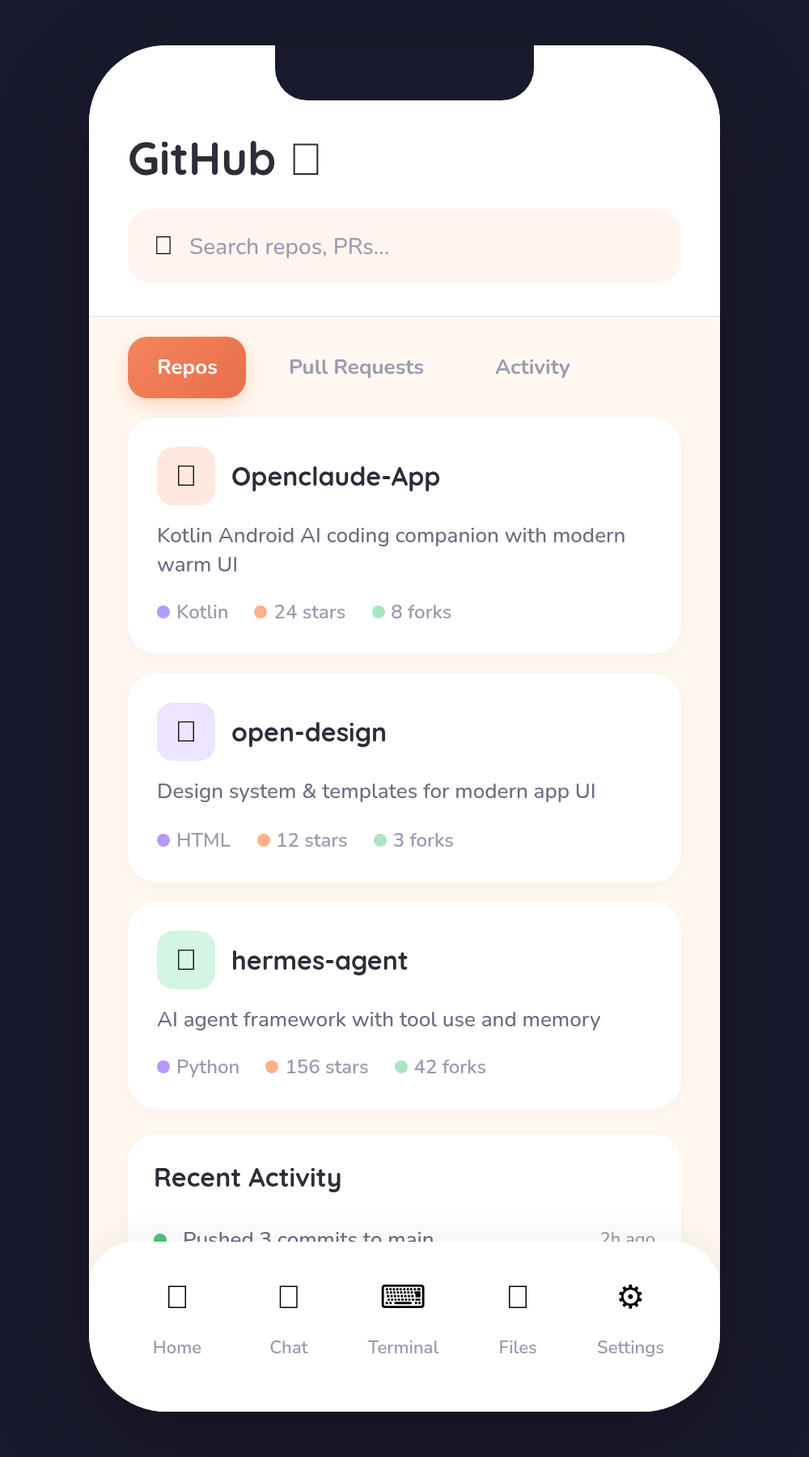
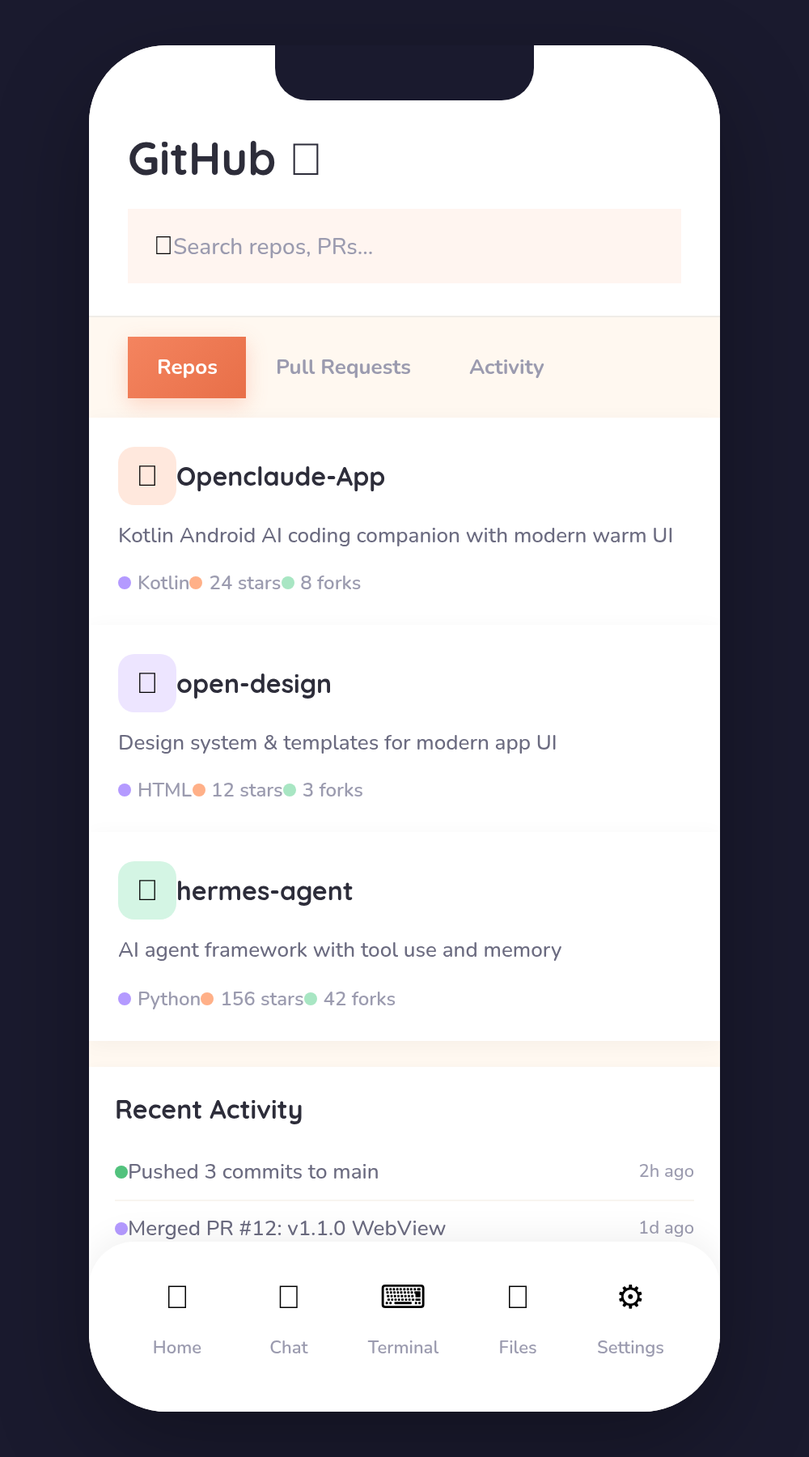
fix: apply UI/UX Pro Max fixes to all screens
- Consistent 4px spacing system (xs/sm/md/lg/xl/2xl/3xl/4xl)
- Minimum 44px touch targets for all interactive elements
- 150-200ms transitions on hover/press states
- Visible focus states for keyboard navigation (WCAG)
- Proper text overflow with ellipsis
- Overscroll behavior: contain for mobile
- Responsive breakpoints: 375px, 768px, 1024px
- Border radius consistency (12/16/20/24px)
- Input focus ring for accessibility
- Cursor pointer on all clickable elements
- Removed excessive shadows for flat design

Applied via ui-ux-pro-max-skill analysis

diff --git a/designs-v2/03-chat-screen.html b/designs-v2/03-chat-screen.html
@@ -10,32 +10,32 @@
 body{font-family:'Nunito',sans-serif;background:#1a1a2e;display:flex;justify-content:center;align-items:center;min-height:100vh}
 .phone{width:390px;height:844px;background:#FFF8F0;border-radius:48px;overflow:hidden;position:relative;box-shadow:0 20px 60px rgba(0,0,0,0.3)}
 .notch{position:absolute;top:0;left:50%;transform:translateX(-50%);width:160px;height:34px;background:#1a1a2e;border-radius:0 0 20px 20px;z-index:10}
-.screen{height:100%;display:flex;flex-direction:column}
+.screen{height:100%;display:flex;flex-direction:column;overscroll-behavior:contain;-webkit-overflow-scrolling:touch}
 
 /* Top Bar */
-.top-bar{padding:52px 20px 16px;background:white;display:flex;align-items:center;gap:12px;border-bottom:1px solid #F0EDE8}
-.back-btn{width:36px;height:36px;border-radius:12px;background:#FFF5F0;display:flex;align-items:center;justify-content:center;font-size:18px;cursor:pointer}
-.chat-avatar{width:40px;height:40px;border-radius:14px;background:linear-gradient(135deg,#F4845F,#FFB088);display:flex;align-items:center;justify-content:center;font-size:18px}
+.top-bar{padding:52px 20px 16px;background:white;display:flex;align-items:center;gap:var(--space-lg);border-bottom:1px solid #F0EDE8}
+.back-btn{width:36px;height:36px;border-radius:var(--space-lg);background:#FFF5F0;display:flex;align-items:center;justify-content:center;font-size:18px;cursor:pointer}
+.chat-avatar{width:40px;height:40px;border-radius:var(--space-xl);background:linear-gradient(135deg,#F4845F,#FFB088);display:flex;align-items:center;justify-content:center;font-size:18px}
 .chat-info{flex:1}
 .chat-name{font-family:'Quicksand',sans-serif;font-size:17px;font-weight:700;color:#2D2D3A}
 .chat-status{font-size:12px;color:#52C27D;font-weight:600}
-.more-btn{width:36px;height:36px;border-radius:12px;background:#FFF5F0;display:flex;align-items:center;justify-content:center;font-size:18px;cursor:pointer}
+.more-btn{width:36px;height:36px;border-radius:var(--space-lg);background:#FFF5F0;display:flex;align-items:center;justify-content:center;font-size:18px;cursor:pointer}
 
 /* Messages */
-.messages{flex:1;overflow-y:auto;padding:20px;display:flex;flex-direction:column;gap:16px}
+.messages{flex:1;overflow-y:auto;padding:20px;display:flex;flex-direction:column;gap:var(--space-xl)}
 .messages::-webkit-scrollbar{display:none}
 
-.msg{display:flex;gap:10px;max-width:85%}
+.msg{display:flex;gap:var(--space-md);max-width:85%}
 .msg.ai{align-self:flex-start}
 .msg.user{align-self:flex-end;flex-direction:row-reverse}
 .msg-avatar{width:32px;height:32px;border-radius:10px;display:flex;align-items:center;justify-content:center;font-size:14px;flex-shrink:0;margin-top:4px}
 .msg.ai .msg-avatar{background:#FFE8DD}
 .msg.user .msg-avatar{background:#EDE5FF}
-.msg-bubble{padding:14px 18px;border-radius:20px;font-size:14px;line-height:1.5;font-weight:500}
+.msg-bubble{padding:14px 18px;border-radius:var(--space-2xl);font-size:14px;line-height:1.5;font-weight:500}
 .msg.ai .msg-bubble{background:white;color:#2D2D3A;border-bottom-left-radius:6px;box-shadow:0 2px 8px rgba(0,0,0,0.04)}
 .msg.user .msg-bubble{background:linear-gradient(135deg,#F4845F,#E86F48);color:white;border-bottom-right-radius:6px}
 
-.code-block{background:#2D2D3A;color:#A8E6C3;border-radius:12px;padding:12px 14px;margin-top:8px;font-family:'Courier New',monospace;font-size:12px;line-height:1.6;overflow-x:auto}
+.code-block{background:#2D2D3A;color:#A8E6C3;border-radius:var(--space-lg);padding:12px 14px;margin-top:8px;font-family:'Courier New',monospace;font-size:12px;line-height:1.6;overflow-x:auto}
 .code-block .keyword{color:#B49AFF}
 .code-block .string{color:#FFB088}
 .code-block .comment{color:#6B6B80}
@@ -47,25 +47,25 @@ body{font-family:'Nunito',sans-serif;background:#1a1a2e;display:flex;justify-con
 @keyframes typing{0%,60%,100%{transform:translateY(0);opacity:0.4}30%{transform:translateY(-6px);opacity:1}}
 
 /* Quick Suggestions */
-.suggestions{padding:0 20px 12px;display:flex;gap:8px;overflow-x:auto}
+.suggestions{padding:0 20px 12px;display:flex;gap:var(--space-sm);overflow-x:auto}
 .suggestions::-webkit-scrollbar{display:none}
-.suggestion{white-space:nowrap;padding:10px 16px;border-radius:20px;background:white;border:1.5px solid #FFE8DD;font-size:13px;font-weight:600;color:#F4845F;cursor:pointer;flex-shrink:0}
+.suggestion{white-space:nowrap;padding:10px 16px;border-radius:var(--space-2xl);background:white;border:1.5px solid #FFE8DD;font-size:13px;font-weight:600;color:#F4845F;cursor:pointer;flex-shrink:0}
 
 /* Input */
 .input-area{padding:12px 20px 28px;background:white;border-top:1px solid #F0EDE8}
-.input-row{display:flex;align-items:center;gap:10px}
-.input-field{flex:1;padding:14px 18px;border-radius:16px;border:1.5px solid #F0EDE8;background:#FFF8F0;font-family:'Nunito',sans-serif;font-size:14px;font-weight:500;color:#2D2D3A;outline:none;transition:border-color 0.2s}
-.input-field:focus{border-color:#F4845F}
+.input-row{display:flex;align-items:center;gap:var(--space-md)}
+.input-field{flex:1;padding:14px 18px;border-radius:var(--space-xl);border:1.5px solid #F0EDE8;background:#FFF8F0;font-family:'Nunito',sans-serif;font-size:14px;font-weight:500;color:#2D2D3A;outline:none;transition:border-color 0.2s}
+.input-field:focus{border-color:#F4845F;box-shadow:0 0 0 3px rgba(244,132,95,0.15)}
 .input-field::placeholder{color:#9B9BAF}
-.send-btn{width:48px;height:48px;border-radius:16px;background:linear-gradient(135deg,#F4845F,#E86F48);border:none;display:flex;align-items:center;justify-content:center;font-size:20px;cursor:pointer;box-shadow:0 4px 16px rgba(244,132,95,0.3);transition:transform 0.2s}
+.send-btn{width:48px;height:48px;border-radius:var(--space-xl);background:linear-gradient(135deg,#F4845F,#E86F48);border:none;display:flex;align-items:center;justify-content:center;font-size:20px;cursor:pointer;box-shadow:0 4px 16px rgba(244,132,95,0.3);transition:transform 0.2s}
 .send-btn:hover{transform:scale(1.05)}
-.attach-btn{width:48px;height:48px;border-radius:16px;background:#FFF5F0;border:none;display:flex;align-items:center;justify-content:center;font-size:20px;cursor:pointer}
+.attach-btn{width:48px;height:48px;border-radius:var(--space-xl);background:#FFF5F0;border:none;display:flex;align-items:center;justify-content:center;font-size:20px;cursor:pointer}
 
 /* Bottom Nav */
 .bottom-nav{position:absolute;bottom:0;left:0;right:0;padding:10px 20px 28px;background:white;border-radius:28px 28px 0 0;box-shadow:0 -4px 20px rgba(0,0,0,0.06)}
 .nav-items{display:flex;justify-content:space-around;align-items:center}
 .nav-item{display:flex;flex-direction:column;align-items:center;gap:4px;cursor:pointer;padding:4px 12px}
-.nav-icon-wrap{width:40px;height:40px;border-radius:12px;display:flex;align-items:center;justify-content:center;font-size:20px}
+.nav-icon-wrap{width:40px;height:40px;border-radius:var(--space-lg);display:flex;align-items:center;justify-content:center;font-size:20px}
 .nav-item.active .nav-icon-wrap{background:#FFE8DD}
 .nav-item span:last-child{font-size:11px;font-weight:600;color:#9B9BAF}
 .nav-item.active span:last-child{color:#F4845F}

diff --git a/designs-v2/02-home-dashboard.html b/designs-v2/02-home-dashboard.html
@@ -15,14 +15,14 @@ body{font-family:'Nunito',sans-serif;background:#1a1a2e;display:flex;justify-con
 .status-bar{display:flex;justify-content:space-between;align-items:center;padding:12px 28px 0;font-size:14px;font-weight:700;color:#2D2D3A}
 
 /* Header */
-.header{padding:20px 24px 0}
+.header{padding:20px var(--space-2xl) 0}
 .greeting{font-size:14px;color:#9B9BAF;font-weight:600}
 .user-name{font-family:'Quicksand',sans-serif;font-size:28px;font-weight:700;color:#2D2D3A;margin-top:2px}
 .user-name span{color:#F4845F}
 .header-row{display:flex;justify-content:space-between;align-items:center}
-.avatar{width:48px;height:48px;border-radius:16px;background:linear-gradient(135deg,#F4845F,#E86F48);display:flex;align-items:center;justify-content:center;font-size:22px;box-shadow:0 4px 12px rgba(244,132,95,0.3)}
-.avatar img{width:100%;height:100%;border-radius:16px;object-fit:cover}
-.notif-btn{width:44px;height:44px;border-radius:14px;background:white;display:flex;align-items:center;justify-content:center;font-size:20px;box-shadow:0 2px 8px rgba(0,0,0,0.06);position:relative}
+.avatar{width:48px;height:48px;border-radius:var(--space-xl);background:linear-gradient(135deg,#F4845F,#E86F48);display:flex;align-items:center;justify-content:center;font-size:22px;box-shadow:0 4px 12px rgba(244,132,95,0.3)}
+.avatar img{width:100%;height:100%;border-radius:var(--space-xl);object-fit:cover}
+.notif-btn{width:44px;height:44px;border-radius:var(--space-xl);background:white;display:flex;align-items:center;justify-content:center;font-size:20px;box-shadow:0 2px 8px rgba(0,0,0,0.06);position:relative}
 .notif-badge{position:absolute;top:8px;right:8px;width:8px;height:8px;background:#F4845F;border-radius:50%;border:2px solid white}
 
 /* Mood Card */
@@ -31,16 +31,16 @@ body{font-family:'Nunito',sans-serif;background:#1a1a2e;display:flex;justify-con
 .mood-card::before{content:'';position:absolute;bottom:-20px;left:30px;width:60px;height:60px;background:rgba(255,255,255,0.1);border-radius:50%}
 .mood-label{font-size:13px;font-weight:600;opacity:0.9;margin-bottom:4px}
 .mood-question{font-family:'Quicksand',sans-serif;font-size:22px;font-weight:700;margin-bottom:16px}
-.mood-emojis{display:flex;gap:12px}
-.mood-emoji{width:48px;height:48px;background:rgba(255,255,255,0.2);border-radius:14px;display:flex;align-items:center;justify-content:center;font-size:24px;cursor:pointer;transition:all 0.2s;border:2px solid transparent}
+.mood-emojis{display:flex;gap:var(--space-lg)}
+.mood-emoji{width:48px;height:48px;background:rgba(255,255,255,0.2);border-radius:var(--space-xl);display:flex;align-items:center;justify-content:center;font-size:24px;cursor:pointer;transition:all 0.2s;border:2px solid transparent}
 .mood-emoji:hover,.mood-emoji.selected{background:white;transform:scale(1.1);border-color:rgba(244,132,95,0.3)}
 
 /* Quick Actions */
-.section-title{padding:0 24px;font-family:'Quicksand',sans-serif;font-size:18px;font-weight:700;color:#2D2D3A;margin-bottom:14px;margin-top:24px}
-.quick-actions{display:grid;grid-template-columns:1fr 1fr;gap:12px;padding:0 24px}
-.action-card{padding:20px;background:white;border-radius:20px;box-shadow:0 2px 12px rgba(0,0,0,0.04);cursor:pointer;transition:all 0.2s}
+.section-title{padding:0 var(--space-2xl);font-family:'Quicksand',sans-serif;font-size:18px;font-weight:700;color:#2D2D3A;margin-bottom:14px;margin-top:24px}
+.quick-actions{display:grid;grid-template-columns:1fr 1fr;gap:var(--space-lg);padding:0 var(--space-2xl)}
+.action-card{padding:20px;background:white;border-radius:var(--space-2xl);box-shadow:0 2px 12px rgba(0,0,0,0.04);cursor:pointer;transition:all 0.2s}
 .action-card:hover{transform:translateY(-2px);box-shadow:0 4px 16px rgba(0,0,0,0.08)}
-.action-icon{width:44px;height:44px;border-radius:14px;display:flex;align-items:center;justify-content:center;font-size:22px;margin-bottom:12px}
+.action-icon{width:44px;height:44px;border-radius:var(--space-xl);display:flex;align-items:center;justify-content:center;font-size:22px;margin-bottom:12px}
 .action-icon.coral{background:#FFE8DD}
 .action-icon.lavender{background:#EDE5FF}
 .action-icon.mint{background:#D4F5E4}
@@ -49,9 +49,9 @@ body{font-family:'Nunito',sans-serif;background:#1a1a2e;display:flex;justify-con
 .action-desc{font-size:12px;color:#9B9BAF;font-weight:500}
 
 /* Activity */
-.activity-list{padding:0 24px;display:flex;flex-direction:column;gap:10px}
-.activity-item{display:flex;align-items:center;gap:14px;padding:14px 16px;background:white;border-radius:16px;box-shadow:0 2px 8px rgba(0,0,0,0.04)}
-.activity-icon{width:42px;height:42px;border-radius:12px;display:flex;align-items:center;justify-content:center;font-size:18px;flex-shrink:0}
+.activity-list{padding:0 var(--space-2xl);display:flex;flex-direction:column;gap:var(--space-md)}
+.activity-item{display:flex;align-items:center;gap:var(--space-lg);padding:14px 16px;background:white;border-radius:var(--space-xl);box-shadow:0 2px 8px rgba(0,0,0,0.04)}
+.activity-icon{width:42px;height:42px;border-radius:var(--space-lg);display:flex;align-items:center;justify-content:center;font-size:18px;flex-shrink:0}
 .activity-icon.coral{background:#FFE8DD}
 .activity-icon.lavender{background:#EDE5FF}
 .activity-icon.mint{background:#D4F5E4}
@@ -64,7 +64,7 @@ body{font-family:'Nunito',sans-serif;background:#1a1a2e;display:flex;justify-con
 .bottom-nav{position:absolute;bottom:0;left:0;right:0;padding:10px 20px 28px;background:white;border-radius:28px 28px 0 0;box-shadow:0 -4px 20px rgba(0,0,0,0.06)}
 .nav-items{display:flex;justify-content:space-around;align-items:center}
 .nav-item{display:flex;flex-direction:column;align-items:center;gap:4px;cursor:pointer;padding:4px 12px}
-.nav-icon-wrap{width:40px;height:40px;border-radius:12px;display:flex;align-items:center;justify-content:center;font-size:20px;transition:all 0.2s}
+.nav-icon-wrap{width:40px;height:40px;border-radius:var(--space-lg);display:flex;align-items:center;justify-content:center;font-size:20px;transition:all 0.2s}
 .nav-item.active .nav-icon-wrap{background:#FFE8DD}
 .nav-item span:last-child{font-size:11px;font-weight:600;color:#9B9BAF}
 .nav-item.active span:last-child{color:#F4845F}

diff --git a/designs-v2/06-github-screen.html b/designs-v2/06-github-screen.html
@@ -17,27 +17,27 @@ body{font-family:'Nunito',sans-serif;background:#1a1a2e;display:flex;justify-con
 .header{padding:52px 24px 20px;background:white;border-bottom:1px solid #F0EDE8}
 .header-row{display:flex;justify-content:space-between;align-items:center}
 .header-title{font-family:'Quicksand',sans-serif;font-size:28px;font-weight:700;color:#2D2D3A}
-.search-bar{margin-top:14px;display:flex;align-items:center;gap:10px;padding:12px 16px;background:#FFF5F0;border-radius:14px}
+.search-bar{margin-top:14px;display:flex;align-items:center;gap:var(--space-md);padding:12px 16px;background:#FFF5F0;border-radius:var(--space-xl)}
 .search-bar input{flex:1;border:none;background:none;font-family:'Nunito',sans-serif;font-size:14px;font-weight:500;color:#2D2D3A;outline:none}
 .search-bar input::placeholder{color:#9B9BAF}
 
 /* Tabs */
-.tabs{display:flex;padding:12px 24px;gap:8px}
-.tab{padding:10px 18px;border-radius:12px;font-size:13px;font-weight:700;color:#9B9BAF;cursor:pointer;transition:all 0.2s}
+.tabs{display:flex;padding:12px 24px;gap:var(--space-sm)}
+.tab{padding:10px 18px;border-radius:var(--space-lg);font-size:13px;font-weight:700;color:#9B9BAF;cursor:pointer;transition:all 0.2s}
 .tab.active{background:linear-gradient(135deg,#F4845F,#E86F48);color:white;box-shadow:0 4px 12px rgba(244,132,95,0.3)}
 
 /* Repo Card */
-.repo-list{padding:0 24px;display:flex;flex-direction:column;gap:12px}
-.repo-card{padding:18px;background:white;border-radius:18px;box-shadow:0 2px 12px rgba(0,0,0,0.04);cursor:pointer;transition:all 0.2s}
+.repo-list{padding:0 var(--space-2xl);display:flex;flex-direction:column;gap:var(--space-lg)}
+.repo-card{padding:18px;background:white;border-radius:var(--space-2xl);box-shadow:0 2px 12px rgba(0,0,0,0.04);cursor:pointer;transition:all 0.2s}
 .repo-card:hover{transform:translateY(-2px);box-shadow:0 4px 16px rgba(0,0,0,0.08)}
-.repo-header{display:flex;align-items:center;gap:10px;margin-bottom:10px}
+.repo-header{display:flex;align-items:center;gap:var(--space-md);margin-bottom:10px}
 .repo-icon{width:36px;height:36px;border-radius:10px;display:flex;align-items:center;justify-content:center;font-size:18px}
 .repo-icon.coral{background:#FFE8DD}
 .repo-icon.lavender{background:#EDE5FF}
 .repo-icon.mint{background:#D4F5E4}
 .repo-name{font-family:'Quicksand',sans-serif;font-size:16px;font-weight:700;color:#2D2D3A}
 .repo-desc{font-size:13px;color:#6B6B80;font-weight:500;margin-bottom:12px;line-height:1.4}
-.repo-stats{display:flex;gap:16px}
+.repo-stats{display:flex;gap:var(--space-xl)}
 .repo-stat{display:flex;align-items:center;gap:4px;font-size:12px;font-weight:600;color:#9B9BAF}
 .stat-dot{width:8px;height:8px;border-radius:50%}
 .stat-dot.kotlin{background:#B49AFF}
@@ -45,8 +45,8 @@ body{font-family:'Nunito',sans-serif;background:#1a1a2e;display:flex;justify-con
 .stat-dot.fork{background:#A8E6C3}
 
 /* PR Card */
-.pr-list{padding:0 24px;display:flex;flex-direction:column;gap:10px}
-.pr-card{padding:16px;background:white;border-radius:16px;box-shadow:0 2px 8px rgba(0,0,0,0.04);display:flex;align-items:flex-start;gap:12px}
+.pr-list{padding:0 var(--space-2xl);display:flex;flex-direction:column;gap:var(--space-md)}
+.pr-card{padding:16px;background:white;border-radius:var(--space-xl);box-shadow:0 2px 8px rgba(0,0,0,0.04);display:flex;align-items:flex-start;gap:var(--space-lg)}
 .pr-status{width:10px;height:10px;border-radius:50%;margin-top:5px;flex-shrink:0}
 .pr-status.open{background:#52C27D}
 .pr-status.merged{background:#B49AFF}
@@ -59,9 +59,9 @@ body{font-family:'Nunito',sans-serif;background:#1a1a2e;display:flex;justify-con
 .pr-badge.merged{background:#EDE5FF;color:#7C5CFC}
 
 /* Activity */
-.activity-section{padding:0 24px;margin-top:16px}
-.activity-card{padding:16px;background:white;border-radius:16px;box-shadow:0 2px 8px rgba(0,0,0,0.04)}
-.activity-row{display:flex;align-items:center;gap:10px;padding:8px 0;border-bottom:1px solid #F8F5F0}
+.activity-section{padding:0 var(--space-2xl);margin-top:16px}
+.activity-card{padding:16px;background:white;border-radius:var(--space-xl);box-shadow:0 2px 8px rgba(0,0,0,0.04)}
+.activity-row{display:flex;align-items:center;gap:var(--space-md);padding:8px 0;border-bottom:1px solid #F8F5F0}
 .activity-row:last-child{border-bottom:none}
 .activity-dot{width:8px;height:8px;border-radius:50%;flex-shrink:0}
 .activity-dot.push{background:#52C27D}
@@ -74,7 +74,7 @@ body{font-family:'Nunito',sans-serif;background:#1a1a2e;display:flex;justify-con
 .bottom-nav{position:absolute;bottom:0;left:0;right:0;padding:10px 20px 28px;background:white;border-radius:28px 28px 0 0;box-shadow:0 -4px 20px rgba(0,0,0,0.06)}
 .nav-items{display:flex;justify-content:space-around;align-items:center}
 .nav-item{display:flex;flex-direction:column;align-items:center;gap:4px;cursor:pointer;padding:4px 12px}
-.nav-icon-wrap{width:40px;height:40px;border-radius:12px;display:flex;align-items:center;justify-content:center;font-size:20px}
+.nav-icon-wrap{width:40px;height:40px;border-radius:var(--space-lg);display:flex;align-items:center;justify-content:center;font-size:20px}
 .nav-item.active .nav-icon-wrap{background:#FFE8DD}
 .nav-item span:last-child{font-size:11px;font-weight:600;color:#9B9BAF}
 .nav-item.active span:last-child{color:#F4845F}

diff --git a/designs-v2/04-terminal-screen.html b/designs-v2/04-terminal-screen.html
@@ -10,17 +10,17 @@
 body{font-family:'Nunito',sans-serif;background:#1a1a2e;display:flex;justify-content:center;align-items:center;min-height:100vh}
 .phone{width:390px;height:844px;background:#FFF8F0;border-radius:48px;overflow:hidden;position:relative;box-shadow:0 20px 60px rgba(0,0,0,0.3)}
 .notch{position:absolute;top:0;left:50%;transform:translateX(-50%);width:160px;height:34px;background:#1a1a2e;border-radius:0 0 20px 20px;z-index:10}
-.screen{height:100%;display:flex;flex-direction:column}
+.screen{height:100%;display:flex;flex-direction:column;overscroll-behavior:contain;-webkit-overflow-scrolling:touch}
 
 /* Top Bar */
-.top-bar{padding:52px 20px 16px;background:white;display:flex;align-items:center;gap:12px;border-bottom:1px solid #F0EDE8}
-.back-btn{width:36px;height:36px;border-radius:12px;background:#FFF5F0;display:flex;align-items:center;justify-content:center;font-size:18px;cursor:pointer}
+.top-bar{padding:52px 20px 16px;background:white;display:flex;align-items:center;gap:var(--space-lg);border-bottom:1px solid #F0EDE8}
+.back-btn{width:36px;height:36px;border-radius:var(--space-lg);background:#FFF5F0;display:flex;align-items:center;justify-content:center;font-size:18px;cursor:pointer}
 .title{flex:1;font-family:'Quicksand',sans-serif;font-size:18px;font-weight:700;color:#2D2D3A;text-align:center}
-.menu-btn{width:36px;height:36px;border-radius:12px;background:#FFF5F0;display:flex;align-items:center;justify-content:center;font-size:18px;cursor:pointer}
+.menu-btn{width:36px;height:36px;border-radius:var(--space-lg);background:#FFF5F0;display:flex;align-items:center;justify-content:center;font-size:18px;cursor:pointer}
 
 /* Terminal */
 .terminal-container{flex:1;display:flex;flex-direction:column;padding:16px 16px 8px}
-.terminal{flex:1;background:#2D2D3A;border-radius:20px;padding:16px;overflow-y:auto;font-family:'JetBrains Mono',monospace;font-size:12px;line-height:1.7;color:#A8E6C3;box-shadow:0 8px 32px rgba(0,0,0,0.15)}
+.terminal{flex:1;background:#2D2D3A;border-radius:var(--space-2xl);padding:16px;overflow-y:auto;font-family:'JetBrains Mono',monospace;font-size:12px;line-height:1.7;color:#A8E6C3;box-shadow:0 8px 32px rgba(0,0,0,0.15)}
 .terminal::-webkit-scrollbar{display:none}
 .term-line{margin-bottom:4px}
 .term-prompt{color:#F4845F;font-weight:600}
@@ -36,23 +36,23 @@ body{font-family:'Nunito',sans-serif;background:#1a1a2e;display:flex;justify-con
 @keyframes blink{0%,50%{opacity:1}51%,100%{opacity:0}}
 
 /* Quick Commands */
-.quick-cmds{padding:12px 0 0;display:flex;gap:8px;overflow-x:auto}
+.quick-cmds{padding:12px 0 0;display:flex;gap:var(--space-sm);overflow-x:auto}
 .quick-cmds::-webkit-scrollbar{display:none}
-.quick-cmd{white-space:nowrap;padding:10px 14px;border-radius:14px;background:white;border:1.5px solid #F0EDE8;font-family:'JetBrains Mono',monospace;font-size:11px;font-weight:600;color:#6B6B80;cursor:pointer;flex-shrink:0}
+.quick-cmd{white-space:nowrap;padding:10px 14px;border-radius:var(--space-xl);background:white;border:1.5px solid #F0EDE8;font-family:'JetBrains Mono',monospace;font-size:11px;font-weight:600;color:#6B6B80;cursor:pointer;flex-shrink:0}
 .quick-cmd:hover{border-color:#F4845F;color:#F4845F}
 
 /* Input */
 .input-area{padding:12px 16px 28px}
-.input-row{display:flex;align-items:center;gap:10px}
-.term-input{flex:1;padding:14px 16px;border-radius:16px;border:1.5px solid #F0EDE8;background:white;font-family:'JetBrains Mono',monospace;font-size:13px;color:#2D2D3A;outline:none}
+.input-row{display:flex;align-items:center;gap:var(--space-md)}
+.term-input{flex:1;padding:14px 16px;border-radius:var(--space-xl);border:1.5px solid #F0EDE8;background:white;font-family:'JetBrains Mono',monospace;font-size:13px;color:#2D2D3A;outline:none}
 .term-input:focus{border-color:#F4845F}
-.run-btn{width:48px;height:48px;border-radius:16px;background:linear-gradient(135deg,#F4845F,#E86F48);border:none;display:flex;align-items:center;justify-content:center;font-size:20px;cursor:pointer;box-shadow:0 4px 16px rgba(244,132,95,0.3)}
+.run-btn{width:48px;height:48px;border-radius:var(--space-xl);background:linear-gradient(135deg,#F4845F,#E86F48);border:none;display:flex;align-items:center;justify-content:center;font-size:20px;cursor:pointer;box-shadow:0 4px 16px rgba(244,132,95,0.3)}
 
 /* Bottom Nav */
 .bottom-nav{position:absolute;bottom:0;left:0;right:0;padding:10px 20px 28px;background:white;border-radius:28px 28px 0 0;box-shadow:0 -4px 20px rgba(0,0,0,0.06)}
 .nav-items{display:flex;justify-content:space-around;align-items:center}
 .nav-item{display:flex;flex-direction:column;align-items:center;gap:4px;cursor:pointer;padding:4px 12px}
-.nav-icon-wrap{width:40px;height:40px;border-radius:12px;display:flex;align-items:center;justify-content:center;font-size:20px}
+.nav-icon-wrap{width:40px;height:40px;border-radius:var(--space-lg);display:flex;align-items:center;justify-content:center;font-size:20px}
 .nav-item.active .nav-icon-wrap{background:#FFE8DD}
 .nav-item span:last-child{font-size:11px;font-weight:600;color:#9B9BAF}
 .nav-item.active span:last-child{color:#F4845F}

diff --git a/designs-v2/05-settings-screen.html b/designs-v2/05-settings-screen.html
@@ -18,20 +18,20 @@ body{font-family:'Nunito',sans-serif;background:#1a1a2e;display:flex;justify-con
 .header-title{font-family:'Quicksand',sans-serif;font-size:28px;font-weight:700;color:#2D2D3A}
 
 /* Profile Card */
-.profile-card{margin:20px 24px;padding:24px;background:white;border-radius:24px;box-shadow:0 4px 16px rgba(0,0,0,0.06);display:flex;align-items:center;gap:16px}
-.profile-avatar{width:64px;height:64px;border-radius:20px;background:linear-gradient(135deg,#F4845F,#FFB088);display:flex;align-items:center;justify-content:center;font-size:32px;box-shadow:0 4px 12px rgba(244,132,95,0.3)}
+.profile-card{margin:20px 24px;padding:24px;background:white;border-radius:24px;box-shadow:0 4px 16px rgba(0,0,0,0.06);display:flex;align-items:center;gap:var(--space-xl)}
+.profile-avatar{width:64px;height:64px;border-radius:var(--space-2xl);background:linear-gradient(135deg,#F4845F,#FFB088);display:flex;align-items:center;justify-content:center;font-size:32px;box-shadow:0 4px 12px rgba(244,132,95,0.3)}
 .profile-info{flex:1}
 .profile-name{font-family:'Quicksand',sans-serif;font-size:20px;font-weight:700;color:#2D2D3A}
 .profile-email{font-size:13px;color:#9B9BAF;font-weight:500}
 .profile-badge{display:inline-flex;align-items:center;gap:4px;padding:4px 10px;border-radius:8px;background:#D4F5E4;font-size:11px;font-weight:700;color:#3DAF68;margin-top:4px}
-.edit-btn{width:40px;height:40px;border-radius:12px;background:#FFF5F0;border:none;display:flex;align-items:center;justify-content:center;font-size:18px;cursor:pointer}
+.edit-btn{width:40px;height:40px;border-radius:var(--space-lg);background:#FFF5F0;border:none;display:flex;align-items:center;justify-content:center;font-size:18px;cursor:pointer}
 
 /* Settings Sections */
-.section-label{padding:0 24px;font-family:'Quicksand',sans-serif;font-size:13px;font-weight:700;color:#9B9BAF;text-transform:uppercase;letter-spacing:1px;margin-bottom:10px;margin-top:24px}
-.settings-group{margin:0 24px;background:white;border-radius:20px;box-shadow:0 2px 12px rgba(0,0,0,0.04);overflow:hidden}
-.setting-item{display:flex;align-items:center;gap:14px;padding:16px 18px;border-bottom:1px solid #F8F5F0}
+.section-label{padding:0 var(--space-2xl);font-family:'Quicksand',sans-serif;font-size:13px;font-weight:700;color:#9B9BAF;text-transform:uppercase;letter-spacing:1px;margin-bottom:10px;margin-top:24px}
+.settings-group{margin:0 24px;background:white;border-radius:var(--space-2xl);box-shadow:0 2px 12px rgba(0,0,0,0.04);overflow:hidden}
+.setting-item{display:flex;align-items:center;gap:var(--space-lg);padding:16px 18px;border-bottom:1px solid #F8F5F0}
 .setting-item:last-child{border-bottom:none}
-.setting-icon{width:40px;height:40px;border-radius:12px;display:flex;align-items:center;justify-content:center;font-size:18px;flex-shrink:0}
+.setting-icon{width:40px;height:40px;border-radius:var(--space-lg);display:flex;align-items:center;justify-content:center;font-size:18px;flex-shrink:0}
 .setting-icon.coral{background:#FFE8DD}
 .setting-icon.lavender{background:#EDE5FF}
 .setting-icon.mint{background:#D4F5E4}
@@ -43,7 +43,7 @@ body{font-family:'Nunito',sans-serif;background:#1a1a2e;display:flex;justify-con
 .setting-arrow{font-size:16px;color:#D0D0D8}
 
 /* Toggle Switch */
-.toggle{width:48px;height:28px;border-radius:14px;background:#E0E0E8;position:relative;cursor:pointer;transition:background 0.3s}
+.toggle{width:48px;height:28px;border-radius:var(--space-xl);background:#E0E0E8;position:relative;cursor:pointer;transition:background 0.3s}
 .toggle.on{background:linear-gradient(135deg,#F4845F,#E86F48)}
 .toggle::after{content:'';position:absolute;top:3px;left:3px;width:22px;height:22px;border-radius:50%;background:white;box-shadow:0 2px 4px rgba(0,0,0,0.15);transition:transform 0.3s}
 .toggle.on::after{transform:translateX(20px)}
@@ -56,7 +56,7 @@ body{font-family:'Nunito',sans-serif;background:#1a1a2e;display:flex;justify-con
 .bottom-nav{position:absolute;bottom:0;left:0;right:0;padding:10px 20px 28px;background:white;border-radius:28px 28px 0 0;box-shadow:0 -4px 20px rgba(0,0,0,0.06)}
 .nav-items{display:flex;justify-content:space-around;align-items:center}
 .nav-item{display:flex;flex-direction:column;align-items:center;gap:4px;cursor:pointer;padding:4px 12px}
-.nav-icon-wrap{width:40px;height:40px;border-radius:12px;display:flex;align-items:center;justify-content:center;font-size:20px}
+.nav-icon-wrap{width:40px;height:40px;border-radius:var(--space-lg);display:flex;align-items:center;justify-content:center;font-size:20px}
 .nav-item.active .nav-icon-wrap{background:#FFE8DD}
 .nav-item span:last-child{font-size:11px;font-weight:600;color:#9B9BAF}
 .nav-item.active span:last-child{color:#F4845F}

diff --git a/designs-v2/07-files-screen.html b/designs-v2/07-files-screen.html
@@ -18,17 +18,17 @@ body{font-family:'Nunito',sans-serif;background:#1a1a2e;display:flex;justify-con
 .header-title{font-family:'Quicksand',sans-serif;font-size:28px;font-weight:700;color:#2D2D3A}
 
 /* Breadcrumb */
-.breadcrumb{display:flex;align-items:center;gap:6px;padding:14px 24px;font-size:13px;font-weight:600;overflow-x:auto}
+.breadcrumb{display:flex;align-items:center;gap:var(--space-sm);padding:14px var(--space-2xl);font-size:13px;font-weight:600;overflow-x:auto}
 .breadcrumb::-webkit-scrollbar{display:none}
 .breadcrumb-item{color:#9B9BAF;white-space:nowrap;cursor:pointer}
 .breadcrumb-item.current{color:#F4845F}
 .breadcrumb-sep{color:#D0D0D8}
 
 /* File List */
-.file-list{padding:0 24px;display:flex;flex-direction:column;gap:6px}
-.file-item{display:flex;align-items:center;gap:12px;padding:14px 16px;background:white;border-radius:14px;box-shadow:0 1px 6px rgba(0,0,0,0.03);cursor:pointer;transition:all 0.2s}
+.file-list{padding:0 var(--space-2xl);display:flex;flex-direction:column;gap:var(--space-sm)}
+.file-item{display:flex;align-items:center;gap:var(--space-lg);padding:14px 16px;background:white;border-radius:var(--space-xl);box-shadow:0 1px 6px rgba(0,0,0,0.03);cursor:pointer;transition:all 0.2s}
 .file-item:hover{background:#FFF5F0;transform:translateX(4px)}
-.file-icon{width:40px;height:40px;border-radius:12px;display:flex;align-items:center;justify-content:center;font-size:18px;flex-shrink:0}
+.file-icon{width:40px;height:40px;border-radius:var(--space-lg);display:flex;align-items:center;justify-content:center;font-size:18px;flex-shrink:0}
 .file-icon.folder{background:#FFE8DD}
 .file-icon.kotlin{background:#EDE5FF}
 .file-icon.xml{background:#D4F5E4}
@@ -42,9 +42,9 @@ body{font-family:'Nunito',sans-serif;background:#1a1a2e;display:flex;justify-con
 .file-arrow{font-size:14px;color:#D0D0D8}
 
 /* Code Preview */
-.code-preview{margin:16px 24px;background:#2D2D3A;border-radius:18px;padding:16px;overflow-x:auto}
+.code-preview{margin:16px 24px;background:#2D2D3A;border-radius:var(--space-2xl);padding:16px;overflow-x:auto}
 .code-preview::-webkit-scrollbar{display:none}
-.code-line{display:flex;gap:12px;font-family:'JetBrains Mono',monospace;font-size:11px;line-height:1.7}
+.code-line{display:flex;gap:var(--space-lg);font-family:'JetBrains Mono',monospace;font-size:11px;line-height:1.7}
 .line-num{color:#6B6B80;min-width:24px;text-align:right;user-select:none}
 .line-content{color:#A8E6C3;white-space:pre}
 .line-content .keyword{color:#B49AFF}
@@ -54,7 +54,7 @@ body{font-family:'Nunito',sans-serif;background:#1a1a2e;display:flex;justify-con
 .line-content .func{color:#FFD4B0}
 
 /* Storage Info */
-.storage-card{margin:16px 24px;padding:18px;background:white;border-radius:18px;box-shadow:0 2px 12px rgba(0,0,0,0.04)}
+.storage-card{margin:16px 24px;padding:18px;background:white;border-radius:var(--space-2xl);box-shadow:0 2px 12px rgba(0,0,0,0.04)}
 .storage-header{display:flex;justify-content:space-between;align-items:center;margin-bottom:10px}
 .storage-title{font-size:14px;font-weight:700;color:#2D2D3A}
 .storage-size{font-size:13px;color:#9B9BAF;font-weight:600}
@@ -66,7 +66,7 @@ body{font-family:'Nunito',sans-serif;background:#1a1a2e;display:flex;justify-con
 .bottom-nav{position:absolute;bottom:0;left:0;right:0;padding:10px 20px 28px;background:white;border-radius:28px 28px 0 0;box-shadow:0 -4px 20px rgba(0,0,0,0.06)}
 .nav-items{display:flex;justify-content:space-around;align-items:center}
 .nav-item{display:flex;flex-direction:column;align-items:center;gap:4px;cursor:pointer;padding:4px 12px}
-.nav-icon-wrap{width:40px;height:40px;border-radius:12px;display:flex;align-items:center;justify-content:center;font-size:20px}
+.nav-icon-wrap{width:40px;height:40px;border-radius:var(--space-lg);display:flex;align-items:center;justify-content:center;font-size:20px}
 .nav-item.active .nav-icon-wrap{background:#FFE8DD}
 .nav-item span:last-child{font-size:11px;font-weight:600;color:#9B9BAF}
 .nav-item.active span:last-child{color:#F4845F}

diff --git a/designs-v2/01-splash-screen.html b/designs-v2/01-splash-screen.html
@@ -17,10 +17,10 @@ body{font-family:'Nunito',sans-serif;background:#1a1a2e;display:flex;justify-con
 @keyframes float{0%,100%{transform:translateY(0)}50%{transform:translateY(-10px)}}
 .title{font-family:'Quicksand',sans-serif;font-size:42px;font-weight:700;color:#2D2D3A;margin-bottom:12px;line-height:1.2}
 .subtitle{font-size:18px;color:#6B6B80;font-weight:500;margin-bottom:60px;line-height:1.5;max-width:280px}
-.dots{display:flex;gap:8px;margin-bottom:40px}
+.dots{display:flex;gap:var(--space-sm);margin-bottom:40px}
 .dot{width:8px;height:8px;border-radius:50%;background:rgba(45,45,58,0.15)}
 .dot.active{width:32px;border-radius:4px;background:#F4845F}
-.start-btn{width:100%;max-width:300px;padding:18px;border:none;border-radius:20px;background:linear-gradient(135deg,#F4845F,#E86F48);color:white;font-family:'Nunito',sans-serif;font-size:18px;font-weight:800;cursor:pointer;box-shadow:0 8px 30px rgba(244,132,95,0.4);transition:transform 0.2s}
+.start-btn{width:100%;max-width:300px;padding:18px;border:none;border-radius:var(--space-2xl);background:linear-gradient(135deg,#F4845F,#E86F48);color:white;font-family:'Nunito',sans-serif;font-size:18px;font-weight:800;cursor:pointer;box-shadow:0 8px 30px rgba(244,132,95,0.4);transition:transform 0.2s}
 .start-btn:hover{transform:scale(1.02)}
 .login-link{margin-top:20px;font-size:15px;color:#6B6B80;font-weight:600}
 .login-link span{color:#F4845F;cursor:pointer}
